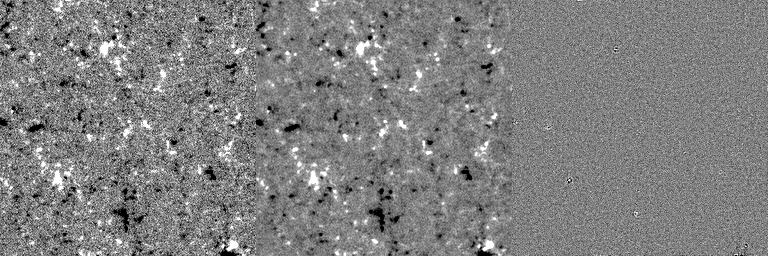
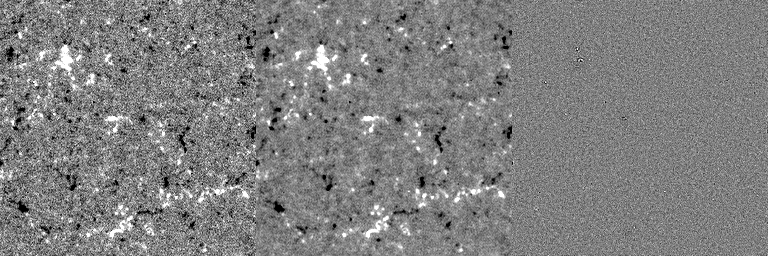
mod

diff --git a/Park2023/train.py b/Park2023/train.py
@@ -25,12 +25,12 @@ device = torch.device('cuda' if cuda else 'cpu')
 print(cuda, ngpu)
 
 
-path_model = os.path.join(opt.root_save, opt.name_data, opt.model_out, "model")
-path_snap = os.path.join(opt.root_save, opt.name_data, opt.model_out, "snap")
+path_model = os.path.join(opt.root_save, opt.name_data, "model")
+path_snap = os.path.join(opt.root_save, opt.name_data, "snap")
 os.makedirs(path_model, exist_ok=True)
 os.makedirs(path_snap, exist_ok=True)
 
-path_logger = "./%s_%s.log" % (opt.name_data, opt.model_out)
+path_logger = "./%s.log" % (opt.name_data)
 logger = open(path_logger, "w")
 logger.close()
 
@@ -71,33 +71,17 @@ epochs_max = opt.nb_epochs + opt.nb_epochs_decay
 while epochs < epochs_max :
     for idx, (patch_, noise_, gaussian_) in enumerate(dataloader):
 
-        if opt.model_out == "noise" :
-
-            optim.zero_grad()
-            inp = gaussian_.clone().to(device)
-            tar = patch_.clone().to(device)
-            noise = network(inp)
-            gen = inp - noise
-            loss = loss_function(gen, tar)
-            metric = metric_function(gen, tar)
-            loss.backward()
-            optim.step()
-            losses.append(loss.item())
-            metrics.append(metric.item())
-
-
-        elif opt.model_out == "denoised" :
-
-            optim.zero_grad()
-            inp = gaussian_.clone().to(device)
-            tar = patch_.clone().to(device)
-            gen = network(inp)
-            loss = loss_function(gen, tar)
-            metric = metric_function(gen, tar)
-            loss.backward()
-            optim.step()
-            losses.append(loss.item())
-            metrics.append(metric.item())
+        optim.zero_grad()
+        inp = gaussian_.clone().to(device)
+        tar = patch_.clone().to(device)
+        noise = network(inp)
+        gen = inp - noise
+        loss = loss_function(gen, tar)
+        metric = metric_function(gen, tar)
+        loss.backward()
+        optim.step()
+        losses.append(loss.item())
+        metrics.append(metric.item())
 
         iters += 1
 
@@ -110,31 +94,20 @@ while epochs < epochs_max :
             logger.write(palette % paint)
             logger.close()
 
-
             network.eval()
 
             inp = patch_.clone().to(device)
 
-            if opt.model_out == "noise" :
-
-                noise = generation(network, inp)
-                inp = inp.cpu().numpy()[0][0]
-                noise = noise.cpu().numpy()[0][0]
-                gen = inp - noise
-
-            elif opt.model_out == "denoised" :
-
-                gen = generation(network, inp)
-                inp = inp.cpu().numpy()[0][0]
-                gen = gen.cpu().numpy()[0][0]
-                noise = inp - gen
+            noise = generation(network, inp)
+            inp = inp.cpu().numpy()[0][0]
+            noise = noise.cpu().numpy()[0][0]
+            gen = inp - noise
 
             snap = np.hstack([inp, gen, noise])
             snap = snap * opt.minmax
             snap = (snap + 30.) * (255./60.)
             snap = np.clip(snap, 0, 255).astype(np.uint8)
-            imsave("%s/%07d.png" % (path_snap, iters), snap)
-            imsave("./%s_%s_latest.png" % (opt.name_data, opt.model_out), snap)
+            imsave("./%s_latest.png" % (opt.name_data), snap)
             
             network.train()
 
@@ -145,16 +118,37 @@ while epochs < epochs_max :
     epochs += 1
     scheduler.step()
 
-    if ngpu > 1 :
-        state_network = network.module.state_dict()
-    else :
-        state_network = network.state_dict()
-    state_optim = optim.state_dict()
-    state_scheduler = scheduler.state_dict()
 
-    state = {'network':state_network,
-        'optimizer':state_optim,
-        'scheduler':state_scheduler}
+    network.eval()
 
-    torch.save(state, '%s/%04d.pt' % (path_model, epochs))
+    inp = patch_.clone().to(device)
+
+    noise = generation(network, inp)
+    inp = inp.cpu().numpy()[0][0]
+    noise = noise.cpu().numpy()[0][0]
+    gen = inp - noise
+
+    snap = np.hstack([inp, gen, noise])
+    snap = snap * opt.minmax
+    snap = (snap + 30.) * (255./60.)
+    snap = np.clip(snap, 0, 255).astype(np.uint8)
+    imsave("%s/%04d.png" % (path_snap, epochs), snap)
+    
+    network.train()
+
+
+    if epochs % opt.save_freq == 0 :
+
+        if ngpu > 1 :
+            state_network = network.module.state_dict()
+        else :
+            state_network = network.state_dict()
+        state_optim = optim.state_dict()
+        state_scheduler = scheduler.state_dict()
+
+        state = {'network':state_network,
+            'optimizer':state_optim,
+            'scheduler':state_scheduler}
+
+        torch.save(state, '%s/%04d.pt' % (path_model, epochs))
 

diff --git a/Park2023/options/train_option.py b/Park2023/options/train_option.py
@@ -27,11 +27,14 @@ class TrainOption(BaseOption):
         self.parser.add_argument("--weight_decay", type=float, default=0.001,
             help="l2 regularization")
 
-        self.parser.add_argument("--nb_epochs", type=int, default=100,
+        self.parser.add_argument("--nb_epochs", type=int, default=50,
             help="# of epochs with initial learning rate")
-        self.parser.add_argument("--nb_epochs_decay", type=int, default=100,
+        self.parser.add_argument("--nb_epochs_decay", type=int, default=50,
             help="# of epochs with linearly decaying learning rate")
 
         self.parser.add_argument("--report_freq", type=int, default=1000,
             help="report frequency in iterations")
+
+        self.parser.add_argument("--save_freq", type=int, default=1,
+            help="save frequency in epochs")
 

diff --git a/Park2023/options/base_option.py b/Park2023/options/base_option.py
@@ -12,9 +12,6 @@ class BaseOption():
         self.parser.add_argument("--name_data", type=str, default="M_45s",
             help="name of data, M_45s, M_720s")
         
-        self.parser.add_argument("--model_out", type=str, default="noise",
-            help="keyword for identification, noise, denoised")
-
         self.parser.add_argument("--gpu_ids", type=str, default="0",
             help="gpu id, ex) 0,2,3")
         self.parser.add_argument("--ch_inp", type=int, default=1,
